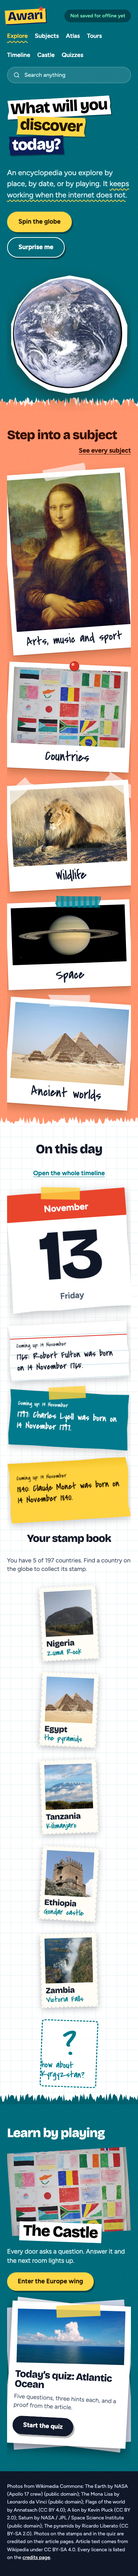
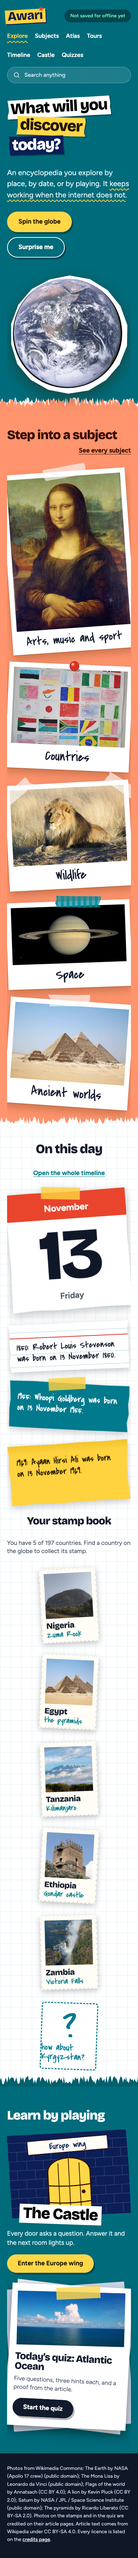
22-review-3 7: castle panel is a drawn door; no repeated photos on Home

Changed region(s): [[0.0, 0.0, 0.9846, 0.996]]

diff --git a/src/features/home/castlePanel.ts b/src/features/home/castlePanel.ts
@@ -1,32 +1,22 @@
 /**
- * What Home's castle panel shows for today's wing (21-review-2 Req 12):
- * a photograph that matches the wing, or one of no particular place, and
- * a button label in sentence case ("Enter the Asia wing").
+ * What Home's castle panel shows for today's wing (22-review-3 Req 8): a
+ * drawn castle door with the wing's name over it. It is never a photograph of
+ * somewhere else, never the flag poster and never the hero's Earth, so the
+ * panel cannot repeat a picture used elsewhere on the page (Req 9).
  */
-import { coverFor } from '../../lib/packs/covers.ts';
 import type { Wing } from '../castle/castle.ts';
 
 export interface CastlePanel {
-  photo: string;
+  /** Always a drawn door: the panel carries no photograph. */
+  kind: 'door';
+  /** The wing's name, shown over the door ("Asia", "Wildlife"). */
+  label: string;
   alt: string;
-  /** Kit photo files under /photos, for the footer credit line. */
-  credited: string;
 }
 
-const GONDAR = { photo: '/photos/castle.jpg', alt: 'A stone castle tower in Gondar, Ethiopia', credited: '/photos/castle.jpg' };
-const EARTH = { photo: '/photos/earth.jpg', alt: 'The Earth seen from space', credited: '/photos/earth.jpg' };
-
 export function castlePanel(wing: Wing | undefined): CastlePanel {
-  if (!wing) return EARTH;
-  if (wing.group === 'subject') {
-    const cover = coverFor(wing.pack);
-    return cover ? { photo: cover.file, alt: cover.alt, credited: cover.file } : EARTH;
-  }
-  // The only continent we hold a castle photograph for is Africa (Gondar). Any other continent gets a
-  // picture of no particular place that is not the hero's Earth: the poster of hand-drawn flags.
-  if (wing.continent === 'Africa') return GONDAR;
-  const flags = coverFor('countries');
-  return flags ? { photo: flags.file, alt: flags.alt, credited: flags.file } : EARTH;
+  const label = wing ? wing.name.replace(/^The /, '') : 'The castle';
+  return { kind: 'door', label, alt: wing ? `A castle door for the ${label} wing` : 'A castle door' };
 }
 
 /** "Enter the Asia wing": the wing's name with its leading "The" in lower case. */

diff --git a/src/features/home/CastleDoor.tsx b/src/features/home/CastleDoor.tsx
@@ -1,0 +1,34 @@
+/**
+ * A drawn castle door for Home's castle panel (22-review-3 Req 8): a stone
+ * wall, an arched wooden door and the wing's name on a banner above it.
+ */
+import { rng, seedFrom, wobblyLine } from '../../design/wobble.ts';
+
+export function CastleDoor({ label, alt, clip }: { label: string; alt: string; clip: string }) {
+  const next = rng(seedFrom(`door-${label}`));
+  const bricks: string[] = [];
+  for (let row = 0; row < 8; row++) {
+    const y = 40 + row * 44;
+    bricks.push(wobblyLine({ x: 0, y }, { x: 570, y }, seedFrom(`row${row}`), 1.5));
+    for (let k = 0; k < 7; k++) {
+      const x = (row % 2 === 0 ? 0 : 40) + k * 82 + next() * 6;
+      bricks.push(`M${x.toFixed(1)} ${y}L${x.toFixed(1)} ${y + 44}`);
+    }
+  }
+  return (
+    <svg role="img" aria-label={alt} className="home-castle__door" viewBox="0 0 570 400" style={{ clipPath: clip }}>
+      <rect width="570" height="400" fill="#0b1b4d" />
+      <path d={bricks.join('')} fill="none" stroke="#ffffff" strokeOpacity="0.18" strokeWidth="2" />
+      <path d="M185 400V190C185 100 385 100 385 190V400Z" fill="#ffd23f" stroke="#2e0d00" strokeWidth="5" strokeLinejoin="round" />
+      <path d="M285 128V400M235 148V400M335 148V400" fill="none" stroke="#2e0d00" strokeWidth="3.5" strokeLinecap="round" />
+      <path d="M185 250Q285 262 385 250M185 330Q285 342 385 330" fill="none" stroke="#2e0d00" strokeWidth="5" strokeLinecap="round" />
+      <circle cx="350" cy="285" r="9" fill="#2e0d00" />
+      <g transform="rotate(-2 285 62)">
+        <rect x="95" y="30" width="380" height="64" fill="#fffdf6" stroke="#2e0d00" strokeWidth="3" />
+        <text x="285" y="75" textAnchor="middle" fontFamily="var(--font-hand)" fontSize="42" fill="#0b1b4d">
+          {label}
+        </text>
+      </g>
+    </svg>
+  );
+}

diff --git a/src/features/home/Home.tsx b/src/features/home/Home.tsx
@@ -22,6 +22,7 @@ import { subjectById } from '../../lib/packs/subjects.ts';
 import { useProgress } from '../../lib/store/useProgress.ts';
 import { WINGS } from '../castle/castle.ts';
 import { creditLine } from './bundledCredits.ts';
+import { CastleDoor } from './CastleDoor.tsx';
 import { castlePanel, enterLabel } from './castlePanel.ts';
 import { DoorRow } from './DoorRow.tsx';
 import { KitLayer } from './KitLayer.tsx';
@@ -183,7 +184,7 @@ const todaysWing = (day: number) => pickSubjects(day, WINGS, 1)[0] ?? WINGS[0];
 /** The credit line names exactly the bundled photographs on the page today (21-review-2 Req 13). */
 function HomeFooter({ day }: { day: number }) {
   const prints = usePrints(day);
-  const shown = ['/photos/earth.jpg', ...prints.map((p) => p.src), castlePanel(todaysWing(day)).photo];
+  const shown = ['/photos/earth.jpg', ...prints.map((p) => p.src)];
   return (
     <footer className="page-footer">
       <p>
@@ -287,7 +288,7 @@ function LearnByPlaying({ day }: { day: number }) {
           <KitLayer layer="playing" />
           <DoorRow lit={lit} />
           <div className="abs home-castle" style={pos('0.6%', '3%', { width: u(570), rotate: '-3deg' })}>
-            <img src={panel.photo} alt={panel.alt} style={{ clipPath: CASTLE_CUT }} />
+            <CastleDoor label={panel.label} alt={panel.alt} clip={CASTLE_CUT} />
             <h3 className="home-castle__title" style={{ fontSize: u(68), bottom: u(-30) }}>
               The Castle
             </h3>

diff --git a/src/features/home/no-duplicate-photos.property.test.tsx b/src/features/home/no-duplicate-photos.property.test.tsx
@@ -1,0 +1,33 @@
+/** 22-review-3 Property 3 (Req 9): no photograph appears twice on Home, on any of several days. */
+import { render, screen } from '@testing-library/react';
+import { afterEach, beforeEach, describe, expect, it, vi } from 'vitest';
+import { clearPackCache } from '../../lib/packs/load.ts';
+import { servePacksFromDisk } from '../../test/packFetch.ts';
+import Home from './Home.tsx';
+
+const DAYS = [new Date(2026, 0, 3, 12), new Date(2026, 2, 17, 12), new Date(2026, 5, 21, 12), new Date(2026, 8, 9, 12), new Date(2026, 10, 13, 12), new Date(2026, 11, 30, 12)];
+
+describe('Home never repeats a photograph (22-review-3 Req 9)', () => {
+  beforeEach(() => {
+    clearPackCache();
+    servePacksFromDisk();
+  });
+  afterEach(() => {
+    vi.useRealTimers();
+  });
+
+  for (const day of DAYS) {
+    it(`on ${day.toDateString()}`, async () => {
+      vi.useFakeTimers({ toFake: ['Date'] });
+      vi.setSystemTime(day);
+      const { container } = render(<Home />);
+      await screen.findByText('Learn by playing');
+      await new Promise((r) => setTimeout(r, 300));
+      const srcs = [...container.querySelectorAll('img')].map((i) => i.getAttribute('src') ?? '').filter(Boolean);
+      expect(srcs.length).toBeGreaterThan(0);
+      expect(srcs.filter((s, i) => srcs.indexOf(s) !== i)).toEqual([]);
+      // The castle panel is a drawn door, not a picture.
+      expect(container.querySelector('.home-castle svg.home-castle__door')).not.toBeNull();
+    });
+  }
+});

diff --git a/src/features/home/castlePanel.test.ts b/src/features/home/castlePanel.test.ts
@@ -1,9 +1,8 @@
 import { describe, expect, it } from 'vitest';
-import { existsSync } from 'node:fs';
 import { WINGS } from '../castle/castle.ts';
 import { castlePanel, enterLabel } from './castlePanel.ts';
 
-describe('castle panel (21-review-2 Req 12)', () => {
+describe('castle panel (22-review-3 Req 8)', () => {
   it('writes every button label in sentence case', () => {
     for (const wing of WINGS) {
       expect(enterLabel(wing)).toMatch(/^Enter the /);
@@ -12,16 +11,13 @@ describe('castle panel (21-review-2 Req 12)', () => {
     expect(enterLabel(undefined)).toBe('Enter the castle');
   });
 
-  it('never shows the Gondar castle for a wing outside Africa', () => {
+  it('is a drawn door for every wing, never a photograph', () => {
     for (const wing of WINGS) {
       const panel = castlePanel(wing);
-      if (panel.photo === '/photos/castle.jpg') expect(wing.continent).toBe('Africa');
-      expect(existsSync(`public${panel.photo}`), panel.photo).toBe(true);
+      expect(panel.kind).toBe('door');
+      expect(panel).not.toHaveProperty('photo');
+      expect(panel.label.length).toBeGreaterThan(2);
+      expect(panel.alt).toContain(panel.label);
     }
-  });
-
-  it('shows a subject wing its own subject cover', () => {
-    const wildlife = WINGS.find((w) => w.id === 'wildlife');
-    expect(castlePanel(wildlife).photo).toBe('/photos/covers/wildlife.jpg');
   });
 });

diff --git a/src/features/home/home.css b/src/features/home/home.css
@@ -330,7 +330,8 @@
   margin: 0 0 28px;
 }
 
-.home-castle img {
+.home-castle img,
+.home-castle__door {
   display: block;
   width: 100%;
   aspect-ratio: 57 / 40;

diff --git a/docs/kiro-log.md b/docs/kiro-log.md
@@ -147,3 +147,4 @@ running the command itself.
 | 2026-11-13 13:25 | vitest src/features (all pass), tsc, eslint; screenshots of /stamps and /atlas at 1440 and 390 (0 px overflow), stamps and atlas at 1440 opened | 22-review-3 4 | New StampSheets component (src/features/stamps/StampSheets.tsx): six perforated sheets, 3 x 2 on a laptop and 2 x 3 on a phone, each a link to its continent page. The stamp book and the Atlas both use it; the old continent cards and the Atlas-only sheet CSS are gone (Req 5, 6) |
 | 2026-11-13 13:35 | scripts/check-atlas-layout.ts now also measures the gap: 24 px between picker and facts note at 1440 (limit 60), globe 54%, 0 px overflow at 390 | 22-review-3 5 | The Atlas uses the shared stamp sheets (task 4); an empty grid row takes the spare height so the picker and the facts note stay together |
 | 2026-11-13 13:55 | vitest src/features (149 pass), tsc, eslint; /subjects opened at 1440 and 390 (0 px overflow after making the prints fluid and padding the grid for the tape) | 22-review-3 6 | /subjects shows each subject as its reviewed cover print with a hand label, tape and an article count read from that subject's index.json; the intro states only the number of subjects, taken from the list (Req 4). New test subjects-page.test.tsx |
+| 2026-11-13 14:15 | vitest src/features/home and castle, tsc, eslint; Home opened at 1440 and 390 (0 px overflow); fresh screenshot read | 22-review-3 7 | The castle panel is now a drawn door with the wing's name (CastleDoor.tsx), never a photograph, so it cannot show the flag poster, the hero Earth or an Ethiopian castle for another continent. no-duplicate-photos.property.test.tsx renders Home on six days and fails on any repeated image (Property 3). Hero note arrows checked in the screenshot: they leave below the note text and end on the Earth |

diff --git a/.kiro/specs/22-review-3/tasks.md b/.kiro/specs/22-review-3/tasks.md
@@ -12,7 +12,7 @@ One task per item. Each is built by `awari-builder`, checked by `awari-design-re
 - [x] 4. Stamp sheets component; stamp book continents as sheets in a 3x2 grid. _Req 5_
 - [x] 5. Atlas uses the stamp sheets; closes the gap under the picker. _Req 6, 7_
 - [x] 6. Subjects page as cover prints with hand labels; count from data. _Req 4_
-- [ ] 7. Home castle panel: a castle or a door; no duplicate photographs on Home (Property 3);
+- [x] 7. Home castle panel: a castle or a door; no duplicate photographs on Home (Property 3);
       hero note arrows clear of their text. _Req 8-10_
 - [ ] 8. Population: one figure with year and source in every country article; drop empty
       sections in the build (Property 6). _Req 11, 12_
